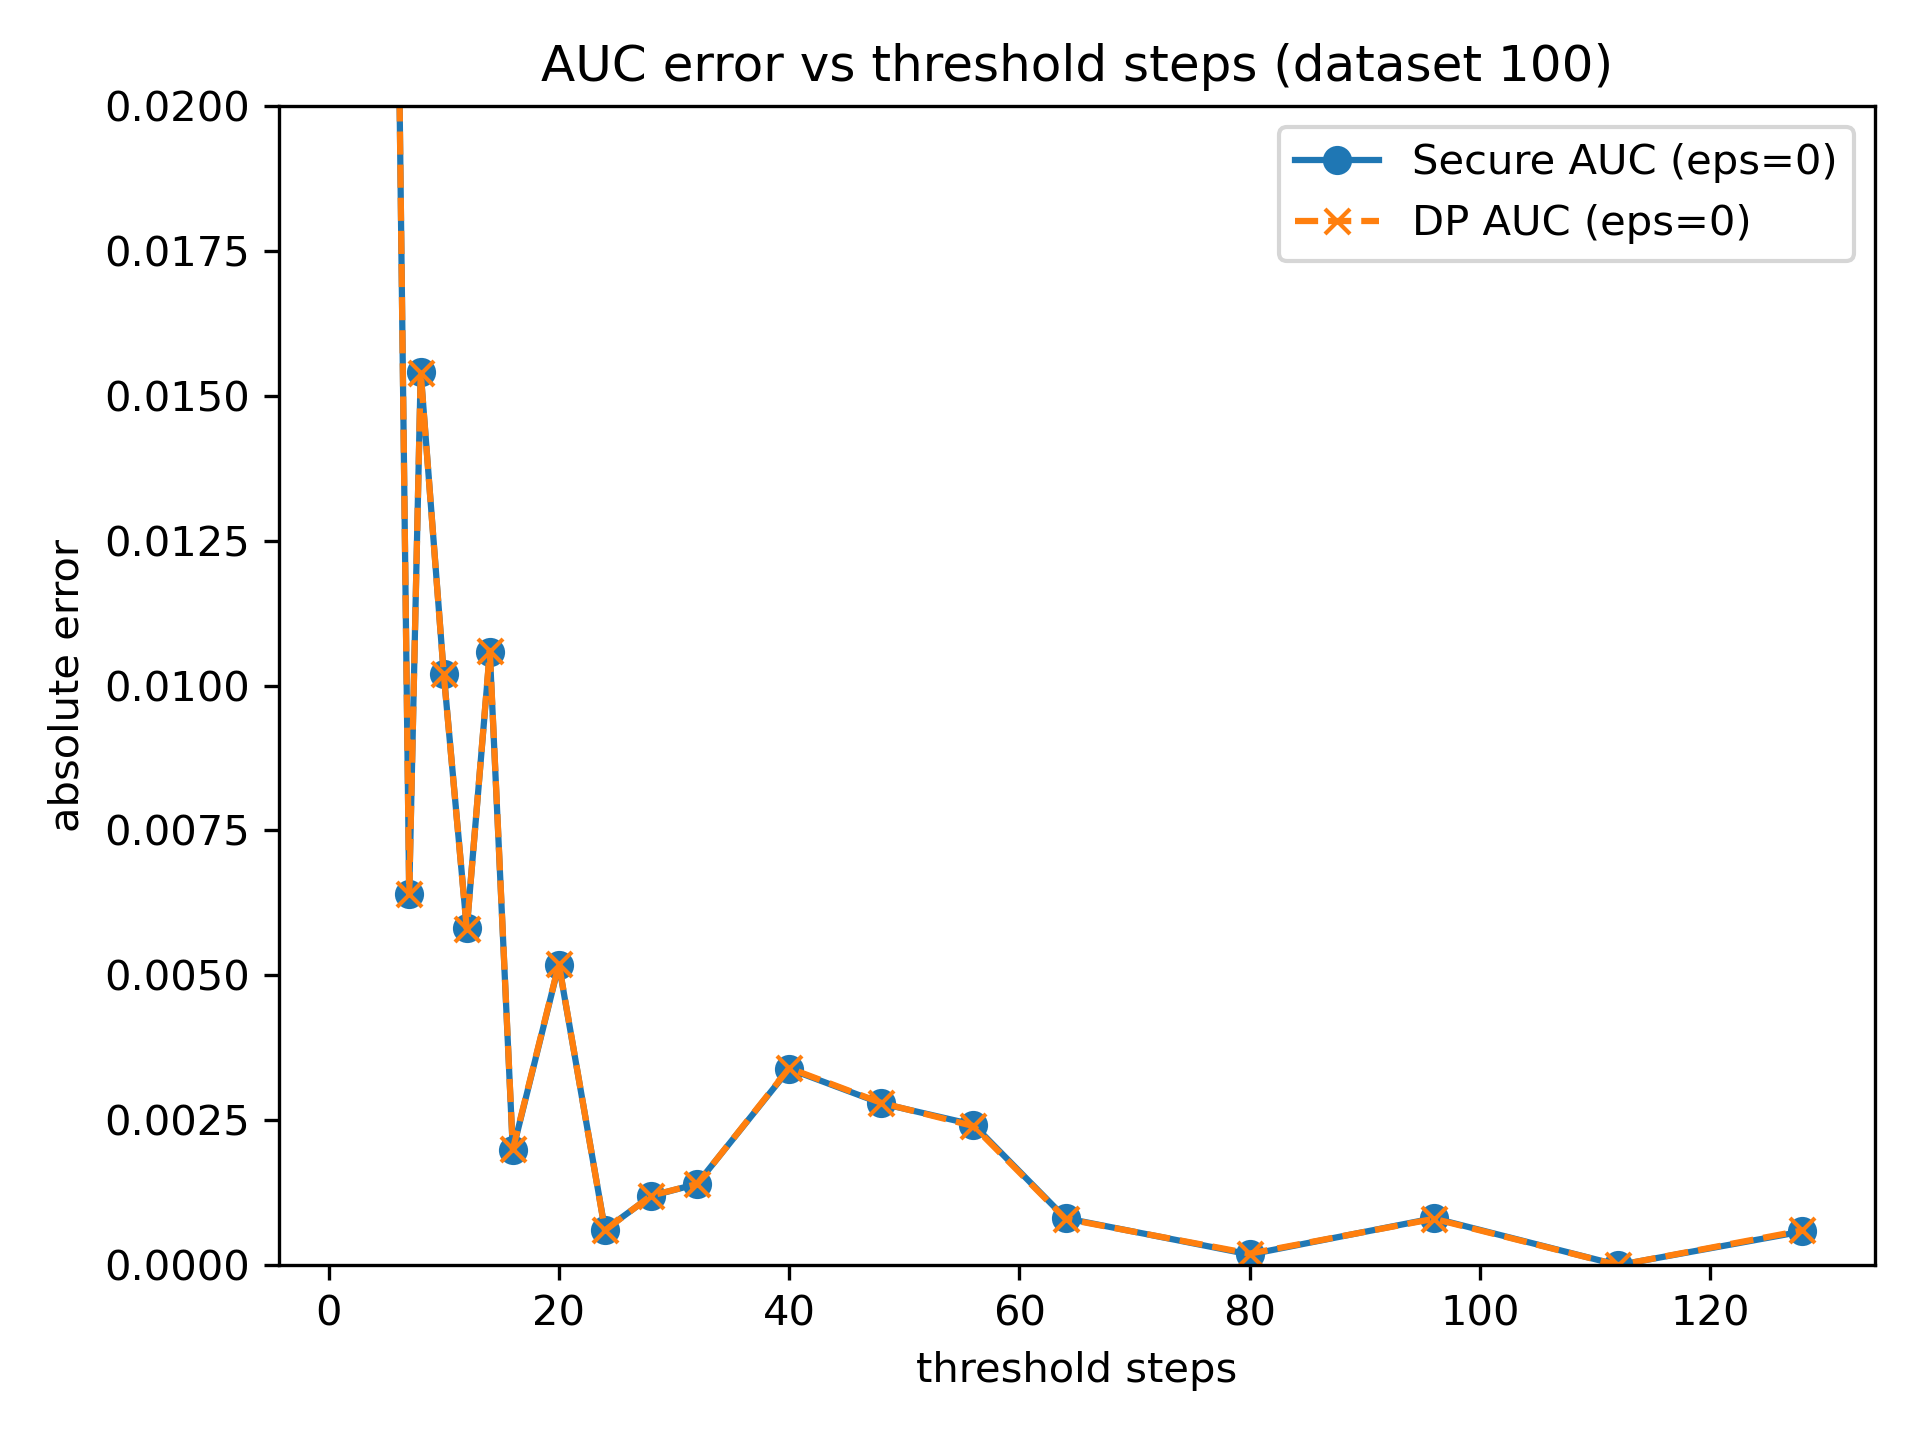
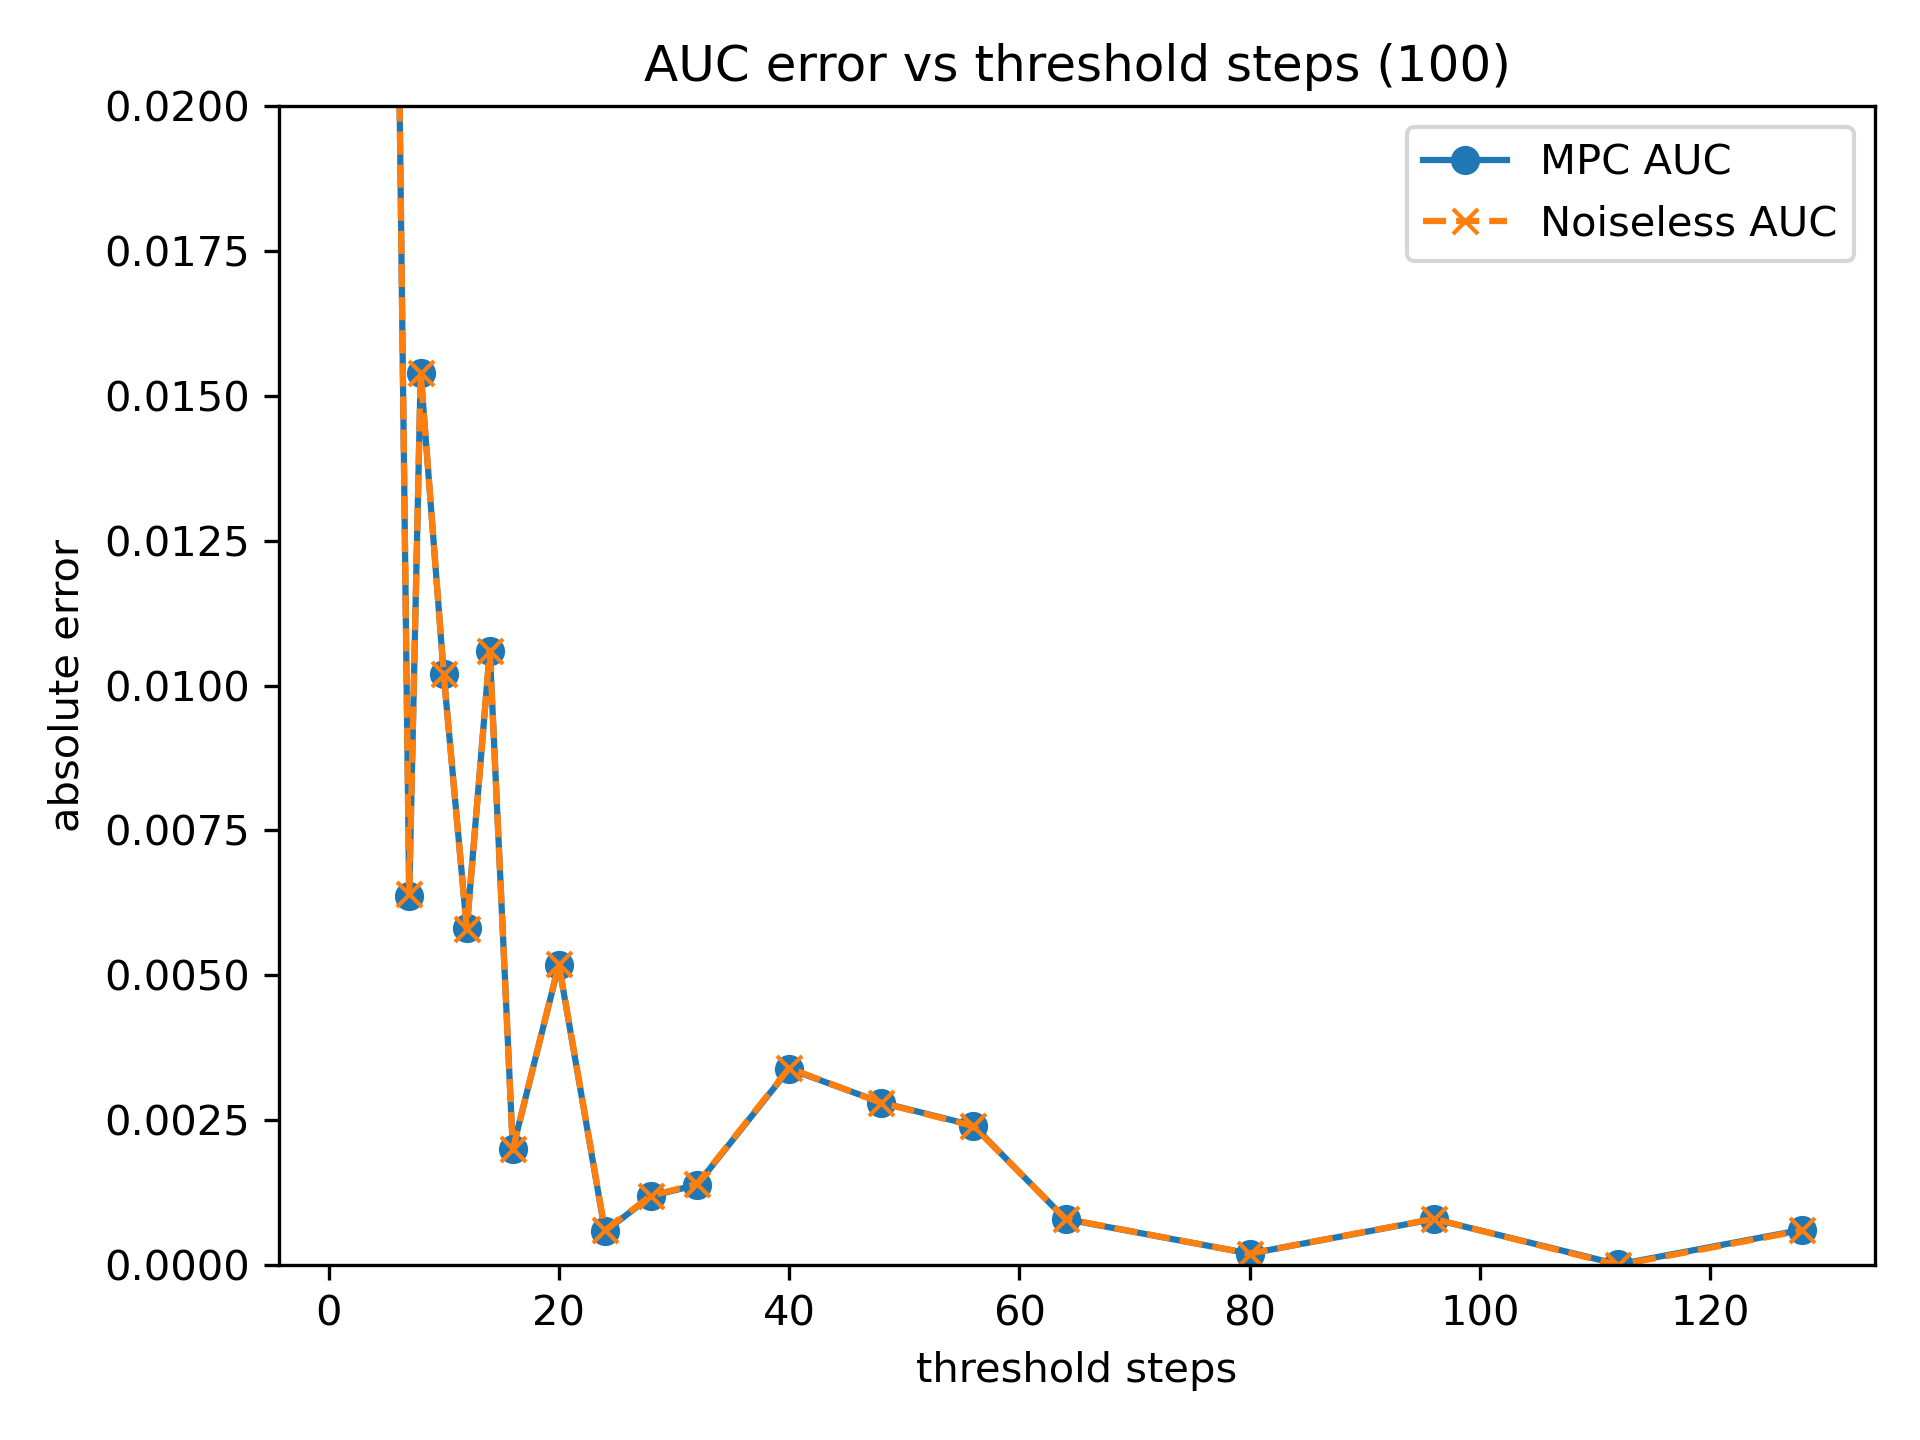
updated plots

Changed region(s): [[0.6562, 0.0938, 0.9688, 0.1875], [0.2812, 0.0312, 0.8438, 0.0625]]

diff --git a/src/main.py b/src/main.py
@@ -234,19 +234,19 @@ def vary_thresholds():
                 steps,
                 secure_mpc_auc[:, j],
                 marker="o",
-                label=f"Secure AUC (eps={e})"
+                label=f"MPC AUC"
             )
             plt.plot(
                 steps,
                 secure_dp_auc[:, j],
                 marker="x",
                 linestyle="--",
-                label=f"DP AUC (eps={e})"
+                label=f"Noiseless AUC"
             )
 
         plt.xlabel("threshold steps")
         plt.ylabel("absolute error")
-        plt.title(f"AUC error vs threshold steps (dataset {dataset[i]})")
+        plt.title(f"AUC error vs threshold steps ({dataset[i]})")
 
         if i < len(y_max):
             plt.ylim(0, y_max[i])
@@ -331,69 +331,84 @@ def vary_epsilon(noise_samples=60):
         plt.close()
 
 def vary_parties():
-
     threshold_steps = 100
-    party_counts = [2, 3, 4, 6, 8]      # adapt as needed
-    selected_epsilons = [0, 0.3, 1.0, 3, 9] # adapt as needed
+    party_counts = [2, 3, 4, 6, 8]
+    selected_epsilons = [0, 0.3, 1.0, 3, 9]
+
+    noise_repeats = 20
 
     for i, (labels, predictions) in enumerate(paths):
         data = load_data(labels, predictions)
         real_auc = float(calc_scikit_auc(data))
 
-        mpc_errors = []
-        dp_errors = []
+        # store results by epsilon
+        mpc_means = []
+        mpc_stds = []
+        dp_means = []
+        dp_stds = []
 
         for e in selected_epsilons:
-            mpc_eps_errors = []
-            dp_eps_errors = []
+            mpc_eps_means = []
+            mpc_eps_stds = []
+            dp_eps_means = []
+            dp_eps_stds = []
 
             for p in party_counts:
-                # adapt this split to however your code expects party-wise data
+                mpc_all_errors = []
+                dp_all_errors = []
+
+
                 split_data = data_loader.split_shuffled_df(data, p)
 
-                mpc_val = to_scalar(secure_auc(split_data, threshold_steps, e))
-                dp_val = to_scalar(dp_auc_calc(split_data, threshold_steps, e))
+                for _ in range(noise_repeats):
+                    mpc_val = float(to_scalar(secure_auc(split_data, threshold_steps, e)))
+                    dp_val = float(to_scalar(dp_auc_calc(split_data, threshold_steps, e)))
 
-                mpc_eps_errors.append(abs(mpc_val - real_auc))
-                dp_eps_errors.append(abs(dp_val - real_auc))
+                    mpc_all_errors.append(abs(mpc_val - real_auc))
+                    dp_all_errors.append(abs(dp_val - real_auc))
 
-            mpc_errors.append(mpc_eps_errors)
-            dp_errors.append(dp_eps_errors)
+                mpc_eps_means.append(np.mean(mpc_all_errors))
+                mpc_eps_stds.append(np.std(mpc_all_errors))
+                dp_eps_means.append(np.mean(dp_all_errors))
+                dp_eps_stds.append(np.std(dp_all_errors))
 
-        x = np.arange(len(party_counts))
+            mpc_means.append(mpc_eps_means)
+            mpc_stds.append(mpc_eps_stds)
+            dp_means.append(dp_eps_means)
+            dp_stds.append(dp_eps_stds)
 
-        n_eps = len(selected_epsilons)
-        n_series = 2 * n_eps
-        width = 0.8 / n_series  # total group width stays reasonable
+        fig, axes = plt.subplots(1, 2, figsize=(12, 5), sharey=True)
 
-        plt.figure(figsize=(10, 6))
-
-        series_idx = 0
         for j, e in enumerate(selected_epsilons):
-            # center all bars around x
-            offset_mpc = (series_idx - (n_series - 1) / 2) * width
-            plt.bar(
-                x + offset_mpc,
-                mpc_errors[j],
-                width=width,
-                label=f"MPC ε={e}"
+            axes[0].errorbar(
+                party_counts,
+                mpc_means[j],
+                yerr=mpc_stds[j],
+                marker='o',
+                capsize=3,
+                label=f"ε={e}"
             )
-            series_idx += 1
-
-            offset_dp = (series_idx - (n_series - 1) / 2) * width
-            plt.bar(
-                x + offset_dp,
-                dp_errors[j],
-                width=width,
-                label=f"DP ε={e}"
+            axes[1].errorbar(
+                party_counts,
+                dp_means[j],
+                yerr=dp_stds[j],
+                marker='o',
+                capsize=3,
+                label=f"ε={e}"
             )
-            series_idx += 1
 
-        plt.xticks(x, party_counts)
-        plt.xlabel("number of parties")
-        plt.ylabel("absolute error")
-        plt.title("AUC error vs number of parties")
-        plt.legend()
+        axes[0].set_title("MPC")
+        axes[1].set_title("DP")
+
+        for ax in axes:
+            ax.set_xlabel("number of parties")
+            ax.set_xticks(party_counts)
+            ax.grid(True, alpha=0.3)
+
+        axes[0].set_ylabel("mean absolute error")
+        fig.suptitle(f"AUC error vs number of parties ({dataset[i]})")
+        axes[1].legend(title="privacy budget")
+
         plt.tight_layout()
         plt.savefig(f"../plots/auc_parties_{dataset[i]}.png", dpi=300)
         plt.close()
@@ -401,101 +416,6 @@ def vary_parties():
 if __name__ == '__main__':
     args = parse_args()
 
-    #vary_thresholds()
+    vary_thresholds()
     #vary_epsilon()
-    vary_parties()
-
-
-#    def run(labels_path, predictions_path, noise_repeats=5):
-#        print("-------------------------------------------------------------------------")
-#        data = load_data(labels_path, predictions_path)
-#        print("Calculating scikit AUC:")
-#        real_auc = calc_scikit_auc(data)
-#
-#        data = data_loader.split_shuffled_df(data, 2)
-#
-#        print("-------------------------------------------------------------------------")
-#        print("MPC-CALCULATIONS")
-#        print()
-
-#        print(
-#            f"Calculating approximate AUC (n_steps: {args.n_steps}):")
-#        sec = []
-#        for i in range(noise_repeats):
-#            sec_auc = secure_auc(data)
-#            result = np.abs(np.array(sec_auc)[:, 0] - real_auc)
-#            sec.append(result)
-#        if noise_repeats == 0:
-#            for thresholds in steps:
-#                sec_auc = secure_auc(data, n_steps=thresholds)
-#                result = np.abs(np.array(sec_auc)[:, 0] - real_auc)
-#                sec.append(result)
-
-#        print("-------------------------------------------------------------------------")
-#        print("DP-ONLY-CALCULATIONS")
-#        print()
-
-#        print("-------------------------------------------------------------------------")
-#        print(f"Calculating DP-only AUC:")
-#        sec_dp = []
-#        for i in range(noise_repeats):
-#            dp_auc = dp_auc_calc(data)
-#            result = np.abs(dp_auc - real_auc)
-#            sec_dp.append(result)
-#        if noise_repeats == 0:
-#            for thresholds in steps:
-#                dp_auc = dp_auc_calc(data, thresholds)
-#                result = np.abs(dp_auc - real_auc)
-#                sec_dp.append(result)
-
-#        return np.asarray(sec), np.asarray(sec_dp)
-#    if len(args.label_path) != 0:
-#        run(labels_path=args.label_path, predictions_path=args.prediction_path)
-#    else:
-#        data = []
-#        for labels_path, predictions_path in paths_full.items():
-#            mpc_data, dp_data = run(labels_path, predictions_path)
-#            data.append((epsilons, mpc_data, dp_data))
-
-#        for size in data:
-#            x = size[0]
-#            y1 = size[1]
-#            y2 = size[2]
-
-#            fig, ax = plt.subplots(2, 1, sharex=True)
-
-            # ---- MPC ----
-#            mean = np.mean(y1, axis=0)
-#            std = np.std(y1, axis=0)
-
-#            ax[0].errorbar(
-#                x,
-#                mean,
-#                yerr=std,
-#                marker="o",
-#                capsize=4
-#            )
-
-#            ax[0].set_title("Secure AUC error")
-#            ax[0].set_ylim(0, 0.15)
-
-#            # ---- DP ----
-#            mean = np.mean(y2, axis=0)
-#            std = np.std(y2, axis=0)
-
-#            ax[1].errorbar(
-#                x,
-#                mean,
-#                yerr=std,
-#                marker="o",
-#                capsize=4
-#            )
-
-#            ax[1].set_title("DP AUC error")
-#            ax[1].set_ylim(0, 0.07)
-#            ax[1].set_xlabel("epsilon")
-
-#            plt.tight_layout()
-#            plt.show()
-
-
+    #vary_parties()
